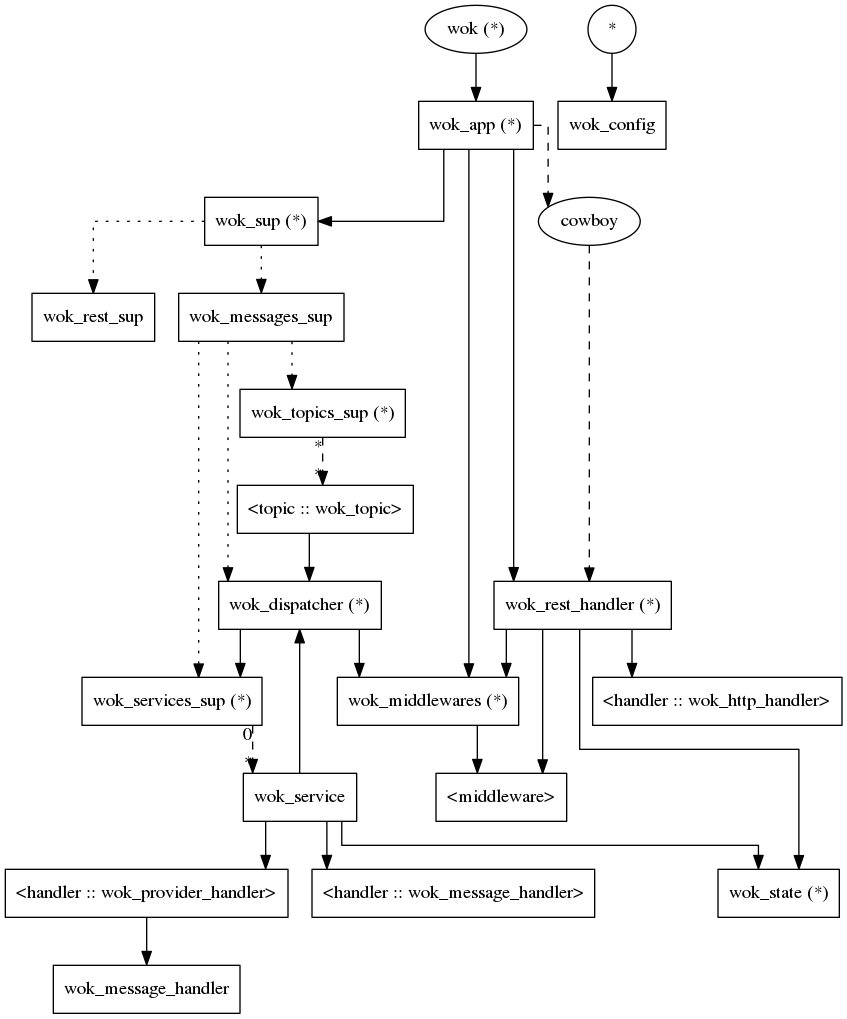
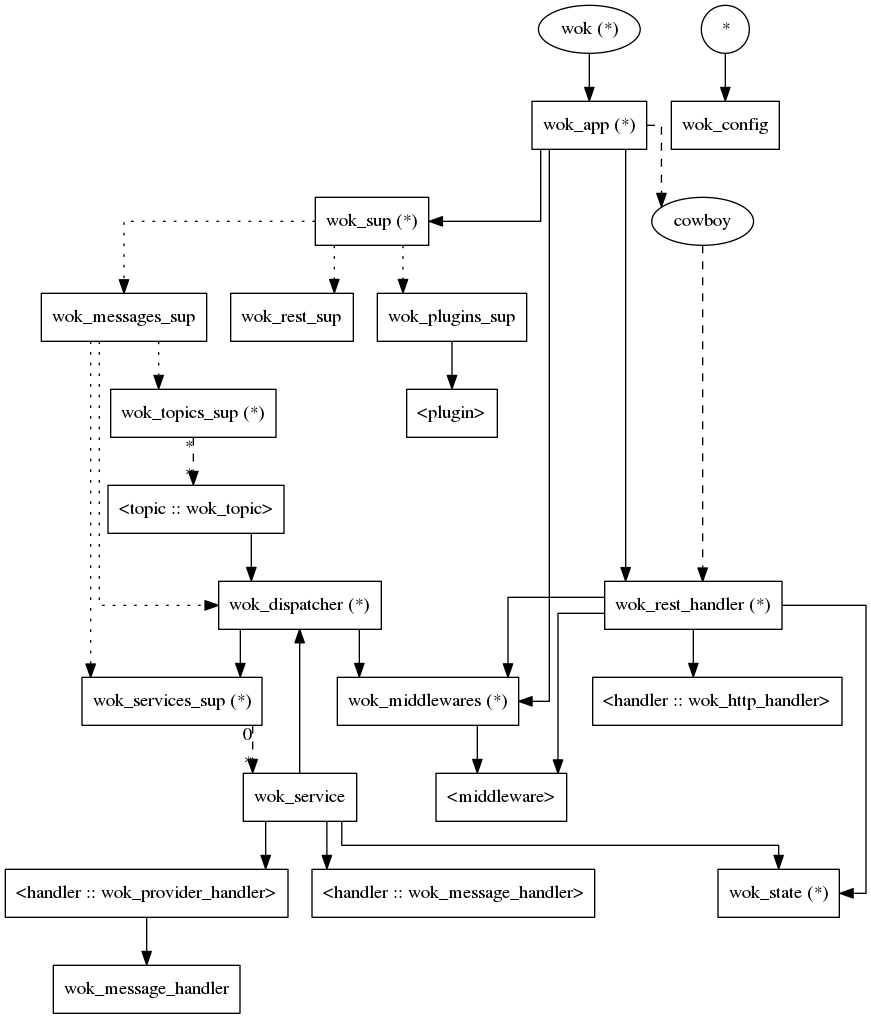
wip: Add plugins support

diff --git a/README.md b/README.md
@@ -25,7 +25,7 @@ __Authors:__ Gregoire Lejeune ([`gregoire.lejeune@gmail.com`](mailto:gregoire.le
 
 2. Create your services and routes.
 
-3. Reference your services and routes in the `config` file (see [Configuration](https://gitlab.scalezen.com/msaas/wok/tree/erlang-mk/doc/README.md#conf))
+3. Reference your services and routes in the `config` file (see [Configuration](https://gitlab.scalezen.com/msaas/wok/tree/plugins/doc/README.md#conf))
 
 3. Start your service :
 
@@ -50,9 +50,9 @@ application:ensure_all_started(wok).
 
 ### Configuration ###
 
-* `messages :: list()` : [Messages configuration](https://gitlab.scalezen.com/msaas/wok/tree/erlang-mk/doc/README.md#messages_conf)
+* `messages :: list()` : [Messages configuration](https://gitlab.scalezen.com/msaas/wok/tree/plugins/doc/README.md#messages_conf)
 
-* `rest :: list()` : [REST configuration](https://gitlab.scalezen.com/msaas/wok/tree/erlang-mk/doc/README.md#rest_conf)
+* `rest :: list()` : [REST configuration](https://gitlab.scalezen.com/msaas/wok/tree/plugins/doc/README.md#rest_conf)
 
 <a name="messages_conf"></a>
 
@@ -60,7 +60,7 @@ application:ensure_all_started(wok).
 
 * `handler :: atom()` : handler used to create and parse messages. See [wok_message_handler](https://gitlab.scalezen.com/msaas/wok_message_handler) for more informations.
 
-* `services :: list()` : [Services configuration](https://gitlab.scalezen.com/msaas/wok/tree/erlang-mk/doc/README.md#services_conf)
+* `services :: list()` : [Services configuration](https://gitlab.scalezen.com/msaas/wok/tree/plugins/doc/README.md#services_conf)
 
 * `consumer_group :: binary()` : Name of the Kafka' consumer group
 
@@ -70,7 +70,7 @@ application:ensure_all_started(wok).
 
 * `max_services_fork :: integer()` : Maximum number of messages in parallel
 
-* `topics :: list()` : [Topics configuration](https://gitlab.scalezen.com/msaas/wok/tree/erlang-mk/doc/README.md#topic_conf)
+* `topics :: list()` : [Topics configuration](https://gitlab.scalezen.com/msaas/wok/tree/plugins/doc/README.md#topic_conf)
 
 <a name="rest_conf"></a>
 
@@ -82,7 +82,7 @@ application:ensure_all_started(wok).
 
 * `max_conn :: integer()` : Max number of  connexions (default: `100`)
 
-* `routes :: list()` : [Routes configuration](https://gitlab.scalezen.com/msaas/wok/tree/erlang-mk/doc/README.md#routes_conf)
+* `routes :: list()` : [Routes configuration](https://gitlab.scalezen.com/msaas/wok/tree/plugins/doc/README.md#routes_conf)
 
 <a name="services_conf"></a>
 
